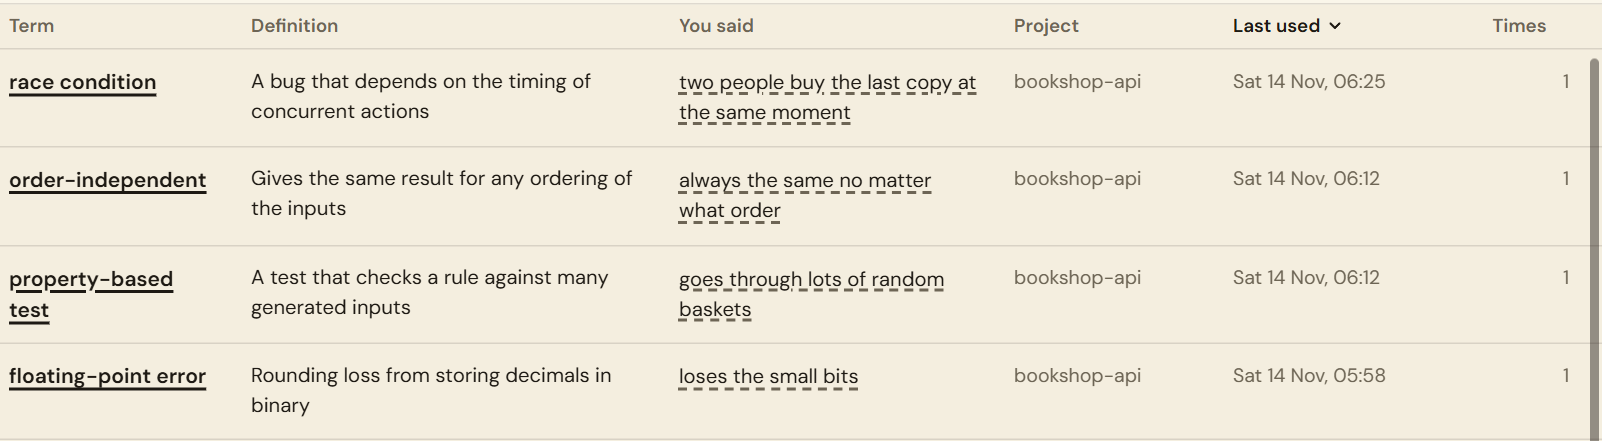
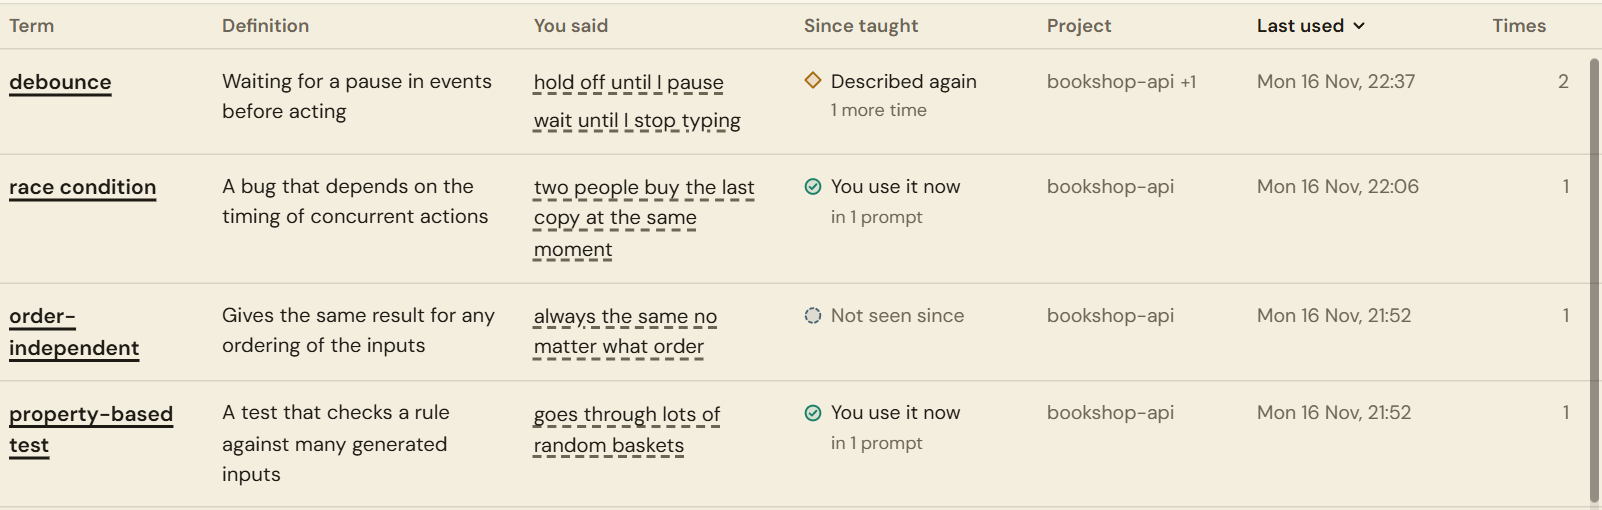
Show in the Glossary whether a taught term has stuck
The Glossary has a new column, Since taught. For each term the engine
compares the later prompts with the term as plain text, with no model
call, and reports one of three signs. "You use it now" means that a
later prompt holds the term. "Described again" means that the same
thing was described in other words after the term was taught. "Not
seen since" means neither. The column sorts, with terms that were
described again first.

Private working files now live in one ignored folder.

diff --git a/ui/index.html b/ui/index.html
@@ -332,7 +332,7 @@ mark{background:none;color:inherit}
 .system-note-text{white-space:pre-wrap;overflow-wrap:anywhere}
 
 /* cards: one row for each term, with its definition and what you said instead */
-.log{--card-columns:minmax(130px,.9fr) minmax(0,1.7fr) minmax(0,1.3fr) minmax(100px,.8fr) 150px 52px}
+.log{--card-columns:minmax(120px,.85fr) minmax(0,1.35fr) minmax(0,1.15fr) minmax(140px,.8fr) minmax(118px,.72fr) 142px 44px}
 .cards{flex:1;min-height:0;overflow-y:auto;padding-bottom:72px}
 .card-row{display:grid;grid-template-columns:var(--card-columns);column-gap:22px;padding:11px 24px;border-top:1px solid var(--line);font-size:13.5px;line-height:1.5;align-items:start}
 .card-row:first-child{border-top:0}
@@ -344,6 +344,12 @@ mark{background:none;color:inherit}
 .card-said{display:grid;gap:3px;justify-items:start}
 .card-said .lay-phrase{--c:var(--muted);background:none;padding:1px 0}
 .card-project,.card-when,.card-times{color:var(--muted);font-size:13px}
+/* since taught: do you write the term yourself now, or still describe it? */
+.card-uptake{display:grid;gap:1px;justify-items:start;font-size:13px}
+.uptake-state{display:inline-flex;align-items:center;gap:6px;white-space:nowrap}
+.uptake-fact{color:var(--muted);font-size:12px;padding-left:18px}
+.card-uptake.is-new .uptake-state{color:var(--muted)}
+.card-project{white-space:nowrap;overflow:hidden;text-overflow:ellipsis}
 .card-times,.column-heads[data-view="cards"] .column-head:last-child{text-align:right;justify-self:end}
 .card-more{font-size:12px;margin-left:4px}
 
@@ -398,6 +404,7 @@ mark{background:none;color:inherit}
   .card-row{grid-template-columns:minmax(0,1fr);row-gap:3px;padding:12px 16px}
   .card-times,.column-heads[data-view="cards"] .column-head:last-child{text-align:left;justify-self:start}
   .card-label{display:inline;margin-right:6px}
+  .card-project{white-space:normal}
   .cell-label{display:block;font-size:12px;font-weight:600;color:var(--muted);margin-bottom:3px}
   .group-head,.notice,.empty-state{padding-left:16px;padding-right:16px}
   .session-head{padding:14px 16px 0}
@@ -530,7 +537,7 @@ const CHEVRON='<svg class="chevron" aria-hidden="true"><use href="#glyph-chevron
 const DIVIDER='<svg class="group-divider" aria-hidden="true"><rect width="100%" height="100%" fill="url(#squiggle)"/></svg>';
 const KEY='getfarman.page.v3', PAGE=50, OVER=700;
 const VIEWS=[['messages','Messages'],['reviews','Reviews'],['cards','Glossary']];
-const CARD_COLS=[['term','Term'],['gloss','Definition'],['said','You said'],['project','Project'],['last_at','Last used'],['times','Times']];
+const CARD_COLS=[['term','Term'],['gloss','Definition'],['said','You said'],['uptake','Since taught'],['project','Project'],['last_at','Last used'],['times','Times']];
 const NOTE_KIND={'system-reminder':'System reminder','task-notification':'Task notification'};
 const UNUSED='<span class="pair-flag" title="The reviewer named this term but did not use it in the better prompt. A plain text comparison found this, not a model.">found, not used</span>';
 const PERIODS=[['all','All'],['today','Today'],['7d','7 days'],['30d','30 days'],['custom','Custom']];
@@ -962,6 +969,19 @@ function renderTable(){
   renderLocation();
 }
 const OFFLINE=()=>'<div class="empty-state"><p><b>'+(state.stopped?'The server is stopped.':'The page cannot reach GetFarman.')+'</b></p><p>To start it again, run <code>getfarman open</code> in a terminal, or type <code>/getfarman</code> in a Claude Code session. This page reconnects by itself.</p></div>';
+/* Since taught: a plain text comparison of your later prompts with the term, made by the server with no model. */
+const UPTAKE={picked:['precise','You use it now'],lay:['better','Described again'],new:['pending','Not seen since']};
+function uptakeCell(c){
+  const u=c.uptake; if(!u) return '<div class="card-cell card-uptake"></div>';
+  const [glyph,label]=UPTAKE[u.state]||UPTAKE.new, plain=' A plain text comparison found this, not a model.';
+  const fact=u.state==='picked'?'in '+n1(u.used,'prompt'):u.state==='lay'?n1(u.again,'more time'):'';
+  const tip=(u.state==='picked'?'After this term was taught you wrote it yourself in '+n1(u.used,'prompt')+', last on '+fmt(u.last_used_at)+'.'
+    :u.state==='lay'?'After this term was taught you described it in other words '+n1(u.again,'more time')+', last on '+fmt(u.last_again_at)+'.'+(u.used?' You also wrote it yourself in '+n1(u.used,'prompt')+' before that.':'')
+    :'No prompt since this term was taught has used it or described it again.')+(u.before?' You had also written it '+n1(u.before,'time')+' before it was taught.':'')+plain;
+  return '<div class="card-cell card-uptake is-'+u.state+'" title="'+esc(tip)+'"><span class="card-label visually-hidden">Since taught: </span>'+
+    '<span class="uptake-state"><svg class="state-glyph is-'+glyph+'" aria-hidden="true"><use href="#glyph-'+glyph+'"/></svg>'+label+'</span>'+
+    (fact?'<span class="uptake-fact">'+fact+'</span>':'')+'</div>';
+}
 function renderCards(){
   const box=$('#cards');
   if(!online){ box.innerHTML=OFFLINE(); return; }
@@ -974,6 +994,7 @@ function renderCards(){
         (miss>0?'<div><span class="pair-flag" title="In '+miss+' of '+n1(c.times,'prompt')+' the reviewer named this term but did not use it in the better prompt. A plain text comparison found this, not a model.">found, not used'+(c.times>1?' in '+miss+' of '+c.times:'')+'</span></div>':'')+'</div>'+
       '<div class="card-cell card-gloss"><span class="card-label visually-hidden">Definition: </span>'+hi(c.gloss||'')+'</div>'+
       '<div class="card-cell card-said"><span class="card-label visually-hidden">You said: </span>'+c.said.map(x=>'<span class="lay-phrase">'+hi(x)+'</span>').join('')+'</div>'+
+      uptakeCell(c)+
       '<div class="card-cell card-project" title="'+esc(where.map(x=>projectLabel(x.project)).join(', '))+'">'+(where.length?hi(projectLabel(where[0].project)):'')+(where.length>1?'<span class="card-more">+'+(where.length-1)+'</span>':'')+'</div>'+
       '<div class="card-cell card-when">'+fmt(c.last_at)+'</div>'+
       '<div class="card-cell card-times" title="'+n1(c.times,'time')+'">'+num(c.times)+'</div></div>'; }).join('')+

diff --git a/bin/getfarman.js b/bin/getfarman.js
@@ -14,7 +14,7 @@ const crypto = require('crypto');
 
 const ROOT = path.resolve(__dirname, '..');
 const SELF = __filename;
-let VERSION = '0.1.0';
+let VERSION = '0.1.1';
 try { VERSION = JSON.parse(fs.readFileSync(path.join(ROOT, 'package.json'), 'utf8')).version || VERSION; } catch (e) { /* keep the default */ }
 const SCHEMA_VERSION = 3;
 
@@ -1431,7 +1431,63 @@ function apiTurns(con, P) {
     stamp: metaGet(con, 'stamp', '0') };
 }
 
-const TERM_SORTS = { term: false, gloss: false, said: false, project: false, last_at: true, times: true };
+const TERM_SORTS = { term: false, gloss: false, said: false, uptake: false, project: false, last_at: true, times: true };
+const UPTAKE_SCAN = 20000;     // how many of the latest prompts are searched for taught terms
+const UPTAKE_RANK = { lay: 0, new: 1, picked: 2 };
+
+/** How to find a term in a prompt: as whole words, with the usual endings (cache, caches, cached, caching). */
+function termMatcher(key) {
+  const esc = s => s.replace(/[.*+?^${}()|[\]\\]/g, '\\$&');
+  const forms = [esc(key) + '(?:s|es|d|ed|ing)?'];
+  let stem = key;
+  if (/[a-z]e$/.test(key)) {
+    stem = key.slice(0, -1);
+    forms.push(esc(stem) + '(?:ing|ed|ion|ions)');
+  }
+  return { stem, re: new RegExp('(?<![a-z0-9])(?:' + forms.join('|') + ')(?![a-z0-9])') };
+}
+
+/** For each taught term: did you write it yourself later, or describe it in other words again?
+
+    A plain text comparison over the whole log, no model. "picked" means that the latest sign is
+    your own use of the term, "lay" that the latest sign is another lay phrase for it, and "new"
+    that nothing was seen since it was taught. */
+function termUptake(con) {
+  const terms = new Map();
+  for (const r of con.all('SELECT p.term, p.turn_id, t.at FROM pairs p JOIN turns t ON t.id=p.turn_id ORDER BY t.at, p.i')) {
+    const key = squash(r.term).toLowerCase();
+    if (!key) continue;
+    let e = terms.get(key);
+    if (!e) {
+      e = Object.assign({ first_at: r.at, taught: new Set(), again: 0, last_again_at: null, used: 0, last_used_at: null, before: 0 }, termMatcher(key));
+      terms.set(key, e);
+    }
+    if (!e.taught.has(r.turn_id)) {
+      e.taught.add(r.turn_id);
+      if (r.at > e.first_at) { e.again += 1; e.last_again_at = r.at; }
+    }
+  }
+  if (!terms.size) return terms;
+  const list = Array.from(terms.values());
+  for (const t of con.all('SELECT id, at, said FROM turns ORDER BY at DESC LIMIT ' + UPTAKE_SCAN)) {
+    const text = squash(ownText(t.said)[1]).toLowerCase().slice(0, 4000);
+    if (!text) continue;
+    for (const e of list) {
+      if (e.taught.has(t.id) || !text.includes(e.stem) || !e.re.test(text)) continue;
+      if (t.at > e.first_at) {
+        e.used += 1;
+        if (!e.last_used_at || t.at > e.last_used_at) e.last_used_at = t.at;
+      } else {
+        e.before += 1;
+      }
+    }
+  }
+  for (const e of list) {
+    const use = e.last_used_at || 0, lay = e.last_again_at || 0;
+    e.state = !use && !lay ? 'new' : use >= lay ? 'picked' : 'lay';
+  }
+  return terms;
+}
 
 /** The Glossary view: the term, its definition and what the user said instead.
 
@@ -1455,12 +1511,20 @@ function apiCards(con, P) {
     c.projects.push({ project: r.project, name });     // the latest project comes last
     Object.assign(c, { last_at: r.at, session_id: r.session_id, session: r.title, project: name });
   }
+  const uptake = termUptake(con);
+  for (const [key, c] of cards) {
+    const u = uptake.get(key);
+    c.uptake = u ? { state: u.state, used: u.used, last_used_at: u.last_used_at, again: u.again, last_again_at: u.last_again_at, before: u.before }
+      : { state: 'new', used: 0, last_used_at: null, again: 0, last_again_at: null, before: 0 };
+  }
   let items = Array.from(cards.values());
   const q = squash(P.q).toLowerCase();
   if (q) items = items.filter(c => [c.term, c.gloss || '', c.said.join(' '), c.project].join(' ').toLowerCase().includes(q));
   const sort = P.sort in TERM_SORTS ? P.sort : 'last_at';
   const down = ['asc', 'desc'].includes(P.dir) ? P.dir === 'desc' : TERM_SORTS[sort];
-  const key = sort === 'last_at' || sort === 'times' ? c => c[sort] : c => String((sort === 'said' ? c.said[0] : c[sort]) || '').toLowerCase();
+  const key = sort === 'last_at' || sort === 'times' ? c => c[sort]
+    : sort === 'uptake' ? c => UPTAKE_RANK[c.uptake.state] * 1e6 - (c.uptake.state === 'picked' ? c.uptake.used : c.uptake.again)
+      : c => String((sort === 'said' ? c.said[0] : c[sort]) || '').toLowerCase();
   const cmp = (x, y) => (x < y ? -1 : x > y ? 1 : 0);
   items.sort((x, y) => cmp(x.term.toLowerCase(), y.term.toLowerCase()));
   items.sort((x, y) => (down ? cmp(key(y), key(x)) : cmp(key(x), key(y))));
@@ -2261,5 +2325,5 @@ if (require.main === module) {
     });
 } else {
   module.exports = { VERSION, HOME, connect, applyReview, words, firstLine, ownText, sessionTimes, bump, cleanConfig, hookCommand, editSettings,
-    hooksRegistered, parseTranscript, termUsed, shortenPath, winUserPath, profileLine };
+    hooksRegistered, parseTranscript, termUsed, shortenPath, winUserPath, profileLine, termMatcher, termUptake };
 }

diff --git a/test/smoke.js b/test/smoke.js
@@ -163,6 +163,30 @@ const ok = name => console.log('  ok   ' + (++step) + '. ' + name);
   assert.strictEqual((await post('/api/config', {}, { every: 5 })).status, 403);
   ok('the server gives the page and the API only to a caller with the key');
 
+  // since taught: a later prompt that holds the term counts as picked up, another lay phrase after that counts as still lay
+  const card = async term => JSON.parse((await get('/api/cards?sort=uptake', H)).text).items.find(c => c.term === term);
+  assert.strictEqual((await card('border-left')).uptake.state, 'new');
+  hook({ hook_event_name: 'UserPromptSubmit', session_id: 's1', prompt_id: 'p3', cwd, prompt: 'make the border-left thicker when the box is hovered' });
+  hook({ hook_event_name: 'UserPromptSubmit', session_id: 's1', prompt_id: 'p4', cwd, prompt: 'the borderleft-ish colour is fine, leave the left side alone' });
+  let seen = (await card('border-left')).uptake;
+  assert.deepStrictEqual([seen.state, seen.used, seen.again], ['picked', 1, 0]);
+  const con2 = F.connect();
+  const later = Date.now() / 1000 + 60;
+  const tid = Number(con2.run("INSERT INTO turns(session_id,n,at,said,said_words,state,better) VALUES('s1',9,?,?,?,'better','Give it a border-left and an ellipsis.')",
+    [later, 'put the little line on the left back and cut the text off with three dots', 14]).lastInsertRowid);
+  con2.run("INSERT INTO pairs(turn_id,i,said,term,gloss) VALUES(?,0,'the little line on the left','border-left','The line on the left edge')", [tid]);
+  con2.run("INSERT INTO pairs(turn_id,i,said,term,gloss) VALUES(?,1,'cut the text off with three dots','ellipsis','The three dots that mark clipped text')", [tid]);
+  con2.close();
+  seen = (await card('border-left')).uptake;
+  assert.deepStrictEqual([seen.state, seen.used, seen.again], ['lay', 1, 1]);
+  assert.strictEqual((await card('ellipsis')).uptake.state, 'new');
+  const order = JSON.parse((await get('/api/cards?sort=uptake', H)).text).items.map(c => c.uptake.state);
+  assert.deepStrictEqual(order, ['lay', 'new']);
+  const deb = F.termMatcher('debounce');
+  assert.ok(deb.re.test('please debounce it') && deb.re.test('it is debounced now') && deb.re.test('try debouncing') && !deb.re.test('undebounceable'));
+  assert.ok(F.termMatcher('paginate').re.test('add pagination') && !F.termMatcher('test').re.test('the latest build'));
+  ok('the glossary says whether a taught term was picked up, described again or not seen since');
+
   assert.strictEqual(JSON.parse((await post('/api/shutdown', H, {})).text).stopped, true);
   await sleep(700);
   assert.ok(!fs.existsSync(path.join(home, 'server.json')));

diff --git a/docs/guide.md b/docs/guide.md
@@ -109,7 +109,7 @@ getfarman remove [--purge]  uninstall; --purge also deletes the log
 - **Filters** (bottom of the sidebar, always in reach): a period (All, Today, 7 days, 30 days, or your own From and To) and switches for "Could be better", "Already precise" and "Not reviewed yet".
 - **Messages:** your prompt on the left, the better prompt on the right. The lay phrase has a dashed underline and the term a solid one, in the same colour. Under each pair is the term's definition. Claude's reply and the changed files sit underneath.
 - **Reviews:** the same prompts as a table: you said, meant, better, words. The arrow under a prompt's number opens a long prompt in full and shows how the coach knew.
-- **Glossary:** one row for each term: the term, its definition, what you said instead, the project, when it was last used and how often. Click a column name to sort by it, and again to turn the order round. Click a term to see the prompts behind it. The glossary follows the project or session that you chose, the period and the search.
+- **Glossary:** one row for each term: the term, its definition, what you said instead, the project, when it was last used and how often. Click a column name to sort by it, and again to turn the order round. Click a term to see the prompts behind it. The glossary follows the project or session that you chose, the period and the search. The Since taught column shows whether you wrote the term yourself in a later prompt, described it again in other words, or neither. It is a plain text comparison, not a model.
 - **"found, not used":** the reviewer is told to use every term it names inside the better prompt. After each review, GetFarman compares the term with the better prompt as plain text, with no model, and marks a pair whose term is missing.
 - **System reminders:** an app can put its own text in front of what you typed, for example a note about other sessions. GetFarman folds that text into a yellow block above your prompt, leaves it out of the word count, and does not send it to the reviewer. A reminder in the middle of your text stays where it is.
 - **Review now:** reviews everything that waits in the current view, the latest 300 at most.

diff --git a/README.md b/README.md
@@ -93,7 +93,15 @@ Reviews shows the same prompts as a table. The columns are You said, Meant, Bett
 
 ![The column names and the first four terms close up](docs/screenshots/glossary-crop.png)
 
-Glossary has one row for each term. A row gives the term, its definition, what you said instead, the project, when you last used it and how often. Click a column name to sort by it. Click a term to see the prompts that it came from.
+Glossary has one row for each term. A row gives the term, its definition, what you said instead, what happened since it was taught, the project, when it last came up and how often. Click a column name to sort by it. Click a term to see the prompts that it came from.
+
+The Since taught column shows whether a term has stuck. GetFarman compares your later prompts with the term as plain text and uses no model for it.
+
+| Sign | Meaning |
+|---|---|
+| You use it now | A later prompt of yours holds the term. |
+| Described again | After the term was taught, you described the same thing in other words. |
+| Not seen since | No later prompt used the term or described it again. |
 
 ### Filters
 
